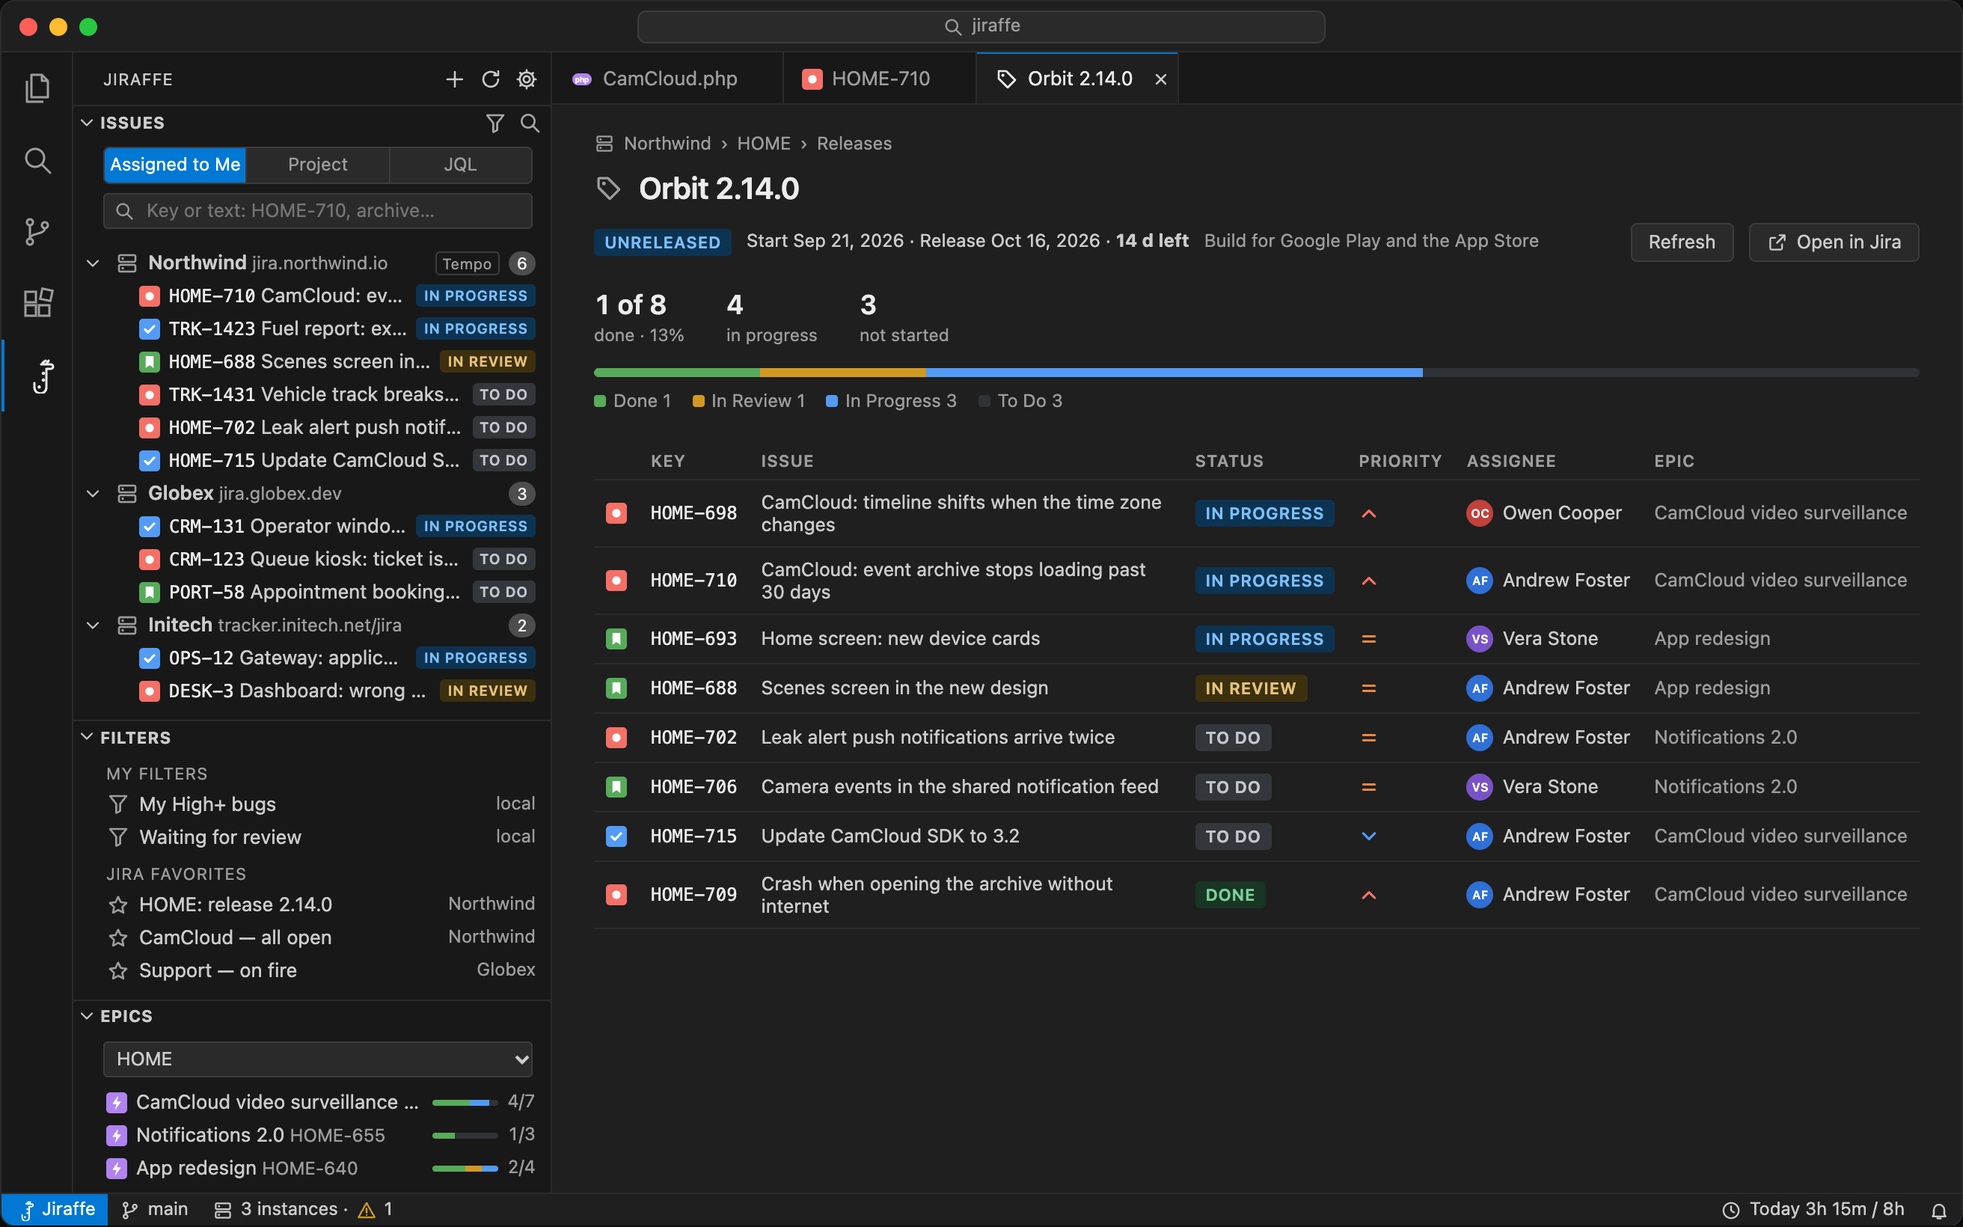
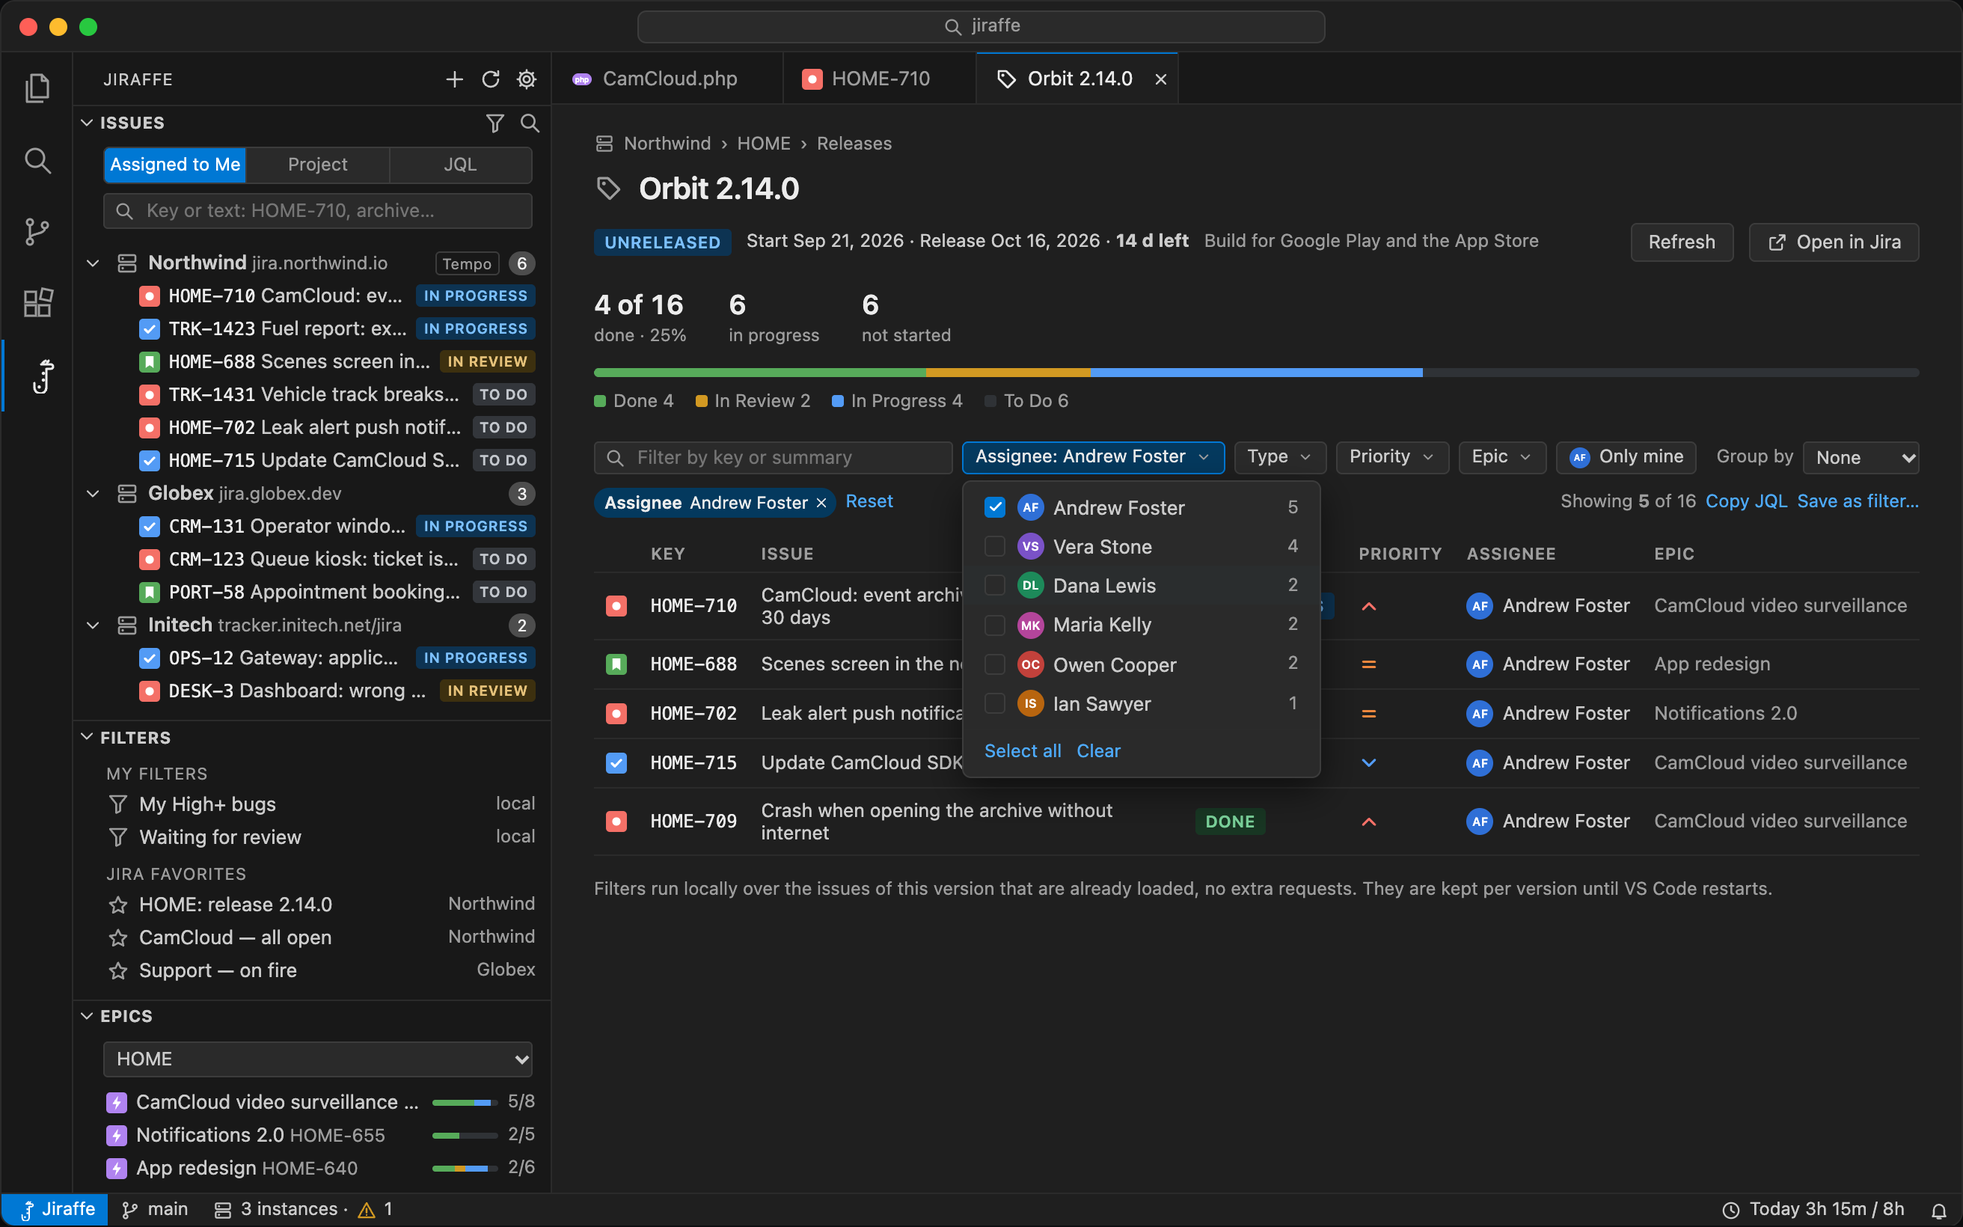
Release filters, stage 3: Copy JQL and Save as filter — the release tab's filterJql message is checked against the tab (instanceId, kind, id), only copy|save, a non-object filter or empty JQL ignored, the filter sanitized and the JQL built on the host (key search only for a key on the tab's page); c

Changed region(s): [[0.2812, 0.2488, 0.9688, 0.7463], [0.75, 0.3421, 0.9688, 0.6841], [0.6875, 0.3421, 0.7188, 0.4043]]

diff --git a/test/releaseFilterHost.test.ts b/test/releaseFilterHost.test.ts
@@ -1,0 +1,76 @@
+import { afterAll, describe, expect, it } from 'vitest';
+import { setL10n } from '../src/l10n';
+import type { ListRow, ReleasePage } from '../src/panels/protocol';
+import { copiedMessage, defaultFilterName, releaseFilterRequest, savedMessage } from '../src/panels/releaseFilterHost';
+import { emptyFilter } from '../webview/releaseFilter';
+
+const cloud = { kind: 'cloud' as const, caps: { tempo: false, epicLinkField: null, checkedAt: '' } };
+const dcNoEpic = { kind: 'dc' as const, caps: { tempo: false, epicLinkField: null, checkedAt: '' } };
+const row = (key: string, o: Partial<ListRow> = {}): ListRow => ({ key, summary: `S ${key}`, type: 'Task', status: 'Open', statusCategory: 'new', ...o });
+const page = (rows: ListRow[], meId?: string): ReleasePage => ({
+  type: 'release', instanceId: 'i', instanceName: 'I', project: 'ABC', id: '5', name: '2.14.0', released: false,
+  kind: 'cloud', progress: { done: 0, inProgress: 0, todo: rows.length, total: rows.length }, rows, truncated: false, ...(meId ? { meId } : {}),
+} as unknown as ReleasePage);
+const F = (o: Record<string, unknown>): unknown => ({ ...emptyFilter(), ...o });
+
+afterAll(() => setL10n(undefined, 'en'));
+
+describe('releaseFilterRequest', () => {
+  it('не объект вместо фильтра и неверный id релиза — игнор', () => {
+    expect(releaseFilterRequest(cloud, '5', undefined, undefined)).toBeUndefined();
+    expect(releaseFilterRequest(cloud, '5', 'x', undefined)).toBeUndefined();
+    expect(releaseFilterRequest(cloud, '5', [], undefined)).toBeUndefined();
+    expect(releaseFilterRequest(cloud, '1 OR 2', emptyFilter(), undefined)).toBeUndefined();
+  });
+  it('мусорный фильтр приводится к пустому: JQL только по релизу', () => {
+    expect(releaseFilterRequest(cloud, '5', { q: 5, cats: 'x', assignee: [1, {}] }, undefined)).toEqual({
+      filter: emptyFilter(), jql: 'fixVersion = 5 ORDER BY status, priority', notes: [],
+    });
+  });
+  it('поиск по ключу идёт как key = только для задачи со страницы вкладки', () => {
+    const p = page([row('ABC-1')]);
+    expect(releaseFilterRequest(cloud, '5', F({ q: 'abc-1' }), p)?.jql).toContain('(key = ABC-1 OR summary ~');
+    expect(releaseFilterRequest(cloud, '5', F({ q: 'abc-2' }), p)?.jql).not.toContain('key =');
+    expect(releaseFilterRequest(cloud, '5', F({ q: 'abc-1' }), undefined)?.jql).not.toContain('key =');
+  });
+  it('эпик не учтён: DC без Epic Link', () => {
+    const r = releaseFilterRequest(dcNoEpic, '5', F({ epic: ['ABC-9'] }), page([]));
+    expect(r?.notes).toEqual(['The epic condition was left out: Epic Link field is unknown on this instance.']);
+    expect(r?.jql).not.toContain('ABC-9');
+  });
+  it('эпик не учтён: поле есть, но ни один ключ не по формату — другая причина', () => {
+    const dc = { kind: 'dc' as const, epicLinkField: 'customfield_10008', caps: { tempo: false, epicLinkField: null, checkedAt: '' } };
+    const r = releaseFilterRequest(dc, '5', F({ epic: ['not a key'] }), page([]));
+    expect(r?.notes).toEqual(['The epic condition was left out: none of the selected epic keys is valid.']);
+    expect(releaseFilterRequest(dc, '5', F({ epic: ['ABC-9'] }), page([]))?.jql).toContain('cf[10008] in (ABC-9)');
+  });
+  it('Cloud, «Без эпика» и подзадача без эпика среди отфильтрованных — пометка; без подзадачи или на другом фильтре — нет', () => {
+    const rows = [row('ABC-1'), row('ABC-2', { type: 'Sub-task', assignee: { id: 'anna', name: 'Anna' } }), row('ABC-3', { type: 'Sub-task', epicKey: 'ABC-90' })];
+    const note = 'Sub-tasks without an epic are not included in the JQL.';
+    expect(releaseFilterRequest(cloud, '5', F({ epic: [''] }), page(rows))?.notes).toEqual([note]);
+    expect(releaseFilterRequest(cloud, '5', F({ epic: [''], assignee: ['ivan'] }), page(rows))?.notes).toEqual([]);
+    expect(releaseFilterRequest(cloud, '5', F({ epic: ['ABC-90'] }), page(rows))?.notes).toEqual([]);
+    expect(releaseFilterRequest(cloud, '5', F({ epic: [''] }), page([row('ABC-1')]))?.notes).toEqual([]);
+    expect(releaseFilterRequest(dcNoEpic, '5', F({ epic: [''] }), page(rows))?.notes).not.toContain(note);
+  });
+  it('«Только мои» учитывает meId страницы при подсчёте подзадач', () => {
+    const rows = [row('ABC-2', { type: 'Sub-task', assignee: { id: 'anna', name: 'Anna' } })];
+    expect(releaseFilterRequest(cloud, '5', F({ epic: [''], mine: true }), page(rows, 'ivan'))?.notes).toEqual([]);
+    expect(releaseFilterRequest(cloud, '5', F({ epic: [''], mine: true }), page(rows, 'anna'))?.notes).toHaveLength(1);
+  });
+});
+
+describe('тексты хоста', () => {
+  it('имя по умолчанию и уведомления', () => {
+    expect(defaultFilterName('ABC', '2.14.0')).toBe('ABC: 2.14.0 (filtered)');
+    expect(defaultFilterName('', '2.14.0')).toBe('2.14.0 (filtered)');
+    expect(copiedMessage('fixVersion = 5', [])).toBe('JQL copied: fixVersion = 5');
+    expect(copiedMessage('x', ['a.', 'b.'])).toBe('JQL copied: x a. b.');
+    expect(savedMessage('F', ['a.'])).toBe('Saved filter F. a.');
+  });
+  it('русский перевод', () => {
+    setL10n({ '{0} (filtered)': '{0} (с фильтрами)', 'Saved filter {0}.': 'Фильтр «{0}» сохранён.' }, 'ru');
+    expect(defaultFilterName('ABC', '2.14.0')).toBe('ABC: 2.14.0 (с фильтрами)');
+    expect(savedMessage('F', [])).toBe('Фильтр «F» сохранён.');
+  });
+});

diff --git a/src/panels/releaseFilterHost.ts b/src/panels/releaseFilterHost.ts
@@ -1,0 +1,50 @@
+// Хостовая часть «Копировать JQL» / «Сохранить как фильтр» вкладки релиза: чистые функции без vscode (тестируются в vitest).
+import type { Instance } from '../jira/types';
+import { epicFieldJql } from '../jira/epics';
+import { releaseFilterJql } from '../jira/releaseFilterJql';
+import { t } from '../l10n';
+import { applyFilter, sanitizeFilter } from '../../webview/releaseFilter';
+import { typeKind } from '../../webview/render';
+import type { ListPage, ReleaseFilter } from './protocol';
+
+type FilterInstance = Pick<Instance, 'kind' | 'epicLinkField' | 'caps'>;
+
+export interface FilterRequest {
+  filter: ReleaseFilter;
+  jql: string;
+  /** Дополнения к уведомлению: чего в JQL нет по сравнению с тем, что видно во вкладке. */
+  notes: string[];
+}
+
+/**
+ * Недоверенное сообщение `filterJql` → фильтр, JQL и пометки. `undefined` — игнорировать (не объект вместо фильтра, неверный id релиза).
+ * `data` — страница вкладки: по её строкам решается, есть ли задача с ключом из поиска (`key =`), и считаются подзадачи без эпика.
+ */
+export function releaseFilterRequest(inst: FilterInstance, versionId: string, rawFilter: unknown, data: ListPage | undefined): FilterRequest | undefined {
+  if (!rawFilter || typeof rawFilter !== 'object' || Array.isArray(rawFilter)) return undefined;
+  const filter = sanitizeFilter(rawFilter);
+  const rows = data?.type === 'release' ? data.rows : undefined;
+  const { jql, epicSkipped } = releaseFilterJql(inst, versionId, filter, rows ? { keyExists: (k) => rows.some((r) => r.key === k) } : {});
+  if (!jql) return undefined;
+  const notes: string[] = [];
+  // Условие по эпику выпало: поля Epic Link нет — или поле есть, но ни один выбранный ключ эпика не прошёл формат.
+  if (epicSkipped) {
+    notes.push(epicFieldJql(inst)
+      ? t('The epic condition was left out: none of the selected epic keys is valid.')
+      : t('The epic condition was left out: Epic Link field is unknown on this instance.'));
+  }
+  // Cloud: «Без эпика» = `parent is EMPTY`; подзадачи имеют родителя-не-эпика, вкладка их показывает, JQL — нет.
+  if (inst.kind === 'cloud' && filter.epic.includes('') && rows) {
+    const shown = applyFilter(rows, filter, data?.type === 'release' ? data.meId : undefined);
+    if (shown.some((r) => !r.epicKey && typeKind(r.type) === 'subtask')) notes.push(t('Sub-tasks without an epic are not included in the JQL.'));
+  }
+  return { filter, jql, notes };
+}
+
+/** Имя сохраняемого фильтра по умолчанию: «ABC: 2.14.0 (filtered)»; без ключа проекта — без префикса. */
+export const defaultFilterName = (project: string, versionName: string): string =>
+  t('{0} (filtered)', project ? `${project}: ${versionName}` : versionName);
+
+const withNotes = (text: string, notes: readonly string[]): string => [text, ...notes].join(' ');
+export const copiedMessage = (jql: string, notes: readonly string[]): string => withNotes(t('JQL copied: {0}', jql), notes);
+export const savedMessage = (name: string, notes: readonly string[]): string => withNotes(t('Saved filter {0}.', name), notes);

diff --git a/src/panels/listPanel.ts b/src/panels/listPanel.ts
@@ -2,11 +2,13 @@ import * as vscode from 'vscode';
 import { noticeText } from '../jira/attachments';
 import { localDate } from '../jira/worklog';
 import type { InstanceStore } from '../state/instances';
+import type { FilterState } from '../state/filters';
 import type { InstanceMeta } from '../state/meta';
 import { browseUrl } from './card';
 import { getBundle, locale, t } from '../l10n';
 import { makeNonce, renderShell } from './html';
 import { loadEpicPage, loadReleasePage, releaseUrl } from './list';
+import { copiedMessage, defaultFilterName, releaseFilterRequest, savedMessage } from './releaseFilterHost';
 import { isIssueKey, isVersionId, type HostToList, type ListPage, type ListToHost } from './protocol';
 
 export type ListKind = ListPage['type'];
@@ -40,6 +42,7 @@ export class ListPanelManager implements vscode.Disposable {
     private readonly extensionUri: vscode.Uri,
     private readonly store: InstanceStore,
     private readonly meta: InstanceMeta,
+    private readonly filters: FilterState,
   ) {}
 
   dispose(): void {
@@ -164,7 +167,37 @@ export class ListPanelManager implements vscode.Disposable {
       case 'openInBrowser':
         if (sameTarget(m)) this.openInBrowser(e);
         break;
+      case 'filterJql':
+        if (sameTarget(m) && m.kind === 'release' && (m.action === 'copy' || m.action === 'save')) {
+          void this.filterJql(e, m.action, m.filter).catch((err: unknown) => vscode.window.showErrorMessage(`Jiraffe: ${noticeText(errText(err))}`));
+        }
+        break;
     }
+  }
+
+  /** «Копировать JQL» / «Сохранить как фильтр» текущего фильтра релиза. Фильтр недоверенный: форма проверяется, JQL собирает хост. */
+  private async filterJql(e: Entry, action: 'copy' | 'save', raw: unknown): Promise<void> {
+    const inst = this.store.get(e.ref.instanceId);
+    if (!inst) return;
+    const req = releaseFilterRequest(inst, e.ref.id, raw, e.data);
+    if (!req) return;
+    if (action === 'copy') {
+      await vscode.env.clipboard.writeText(req.jql);
+      void vscode.window.showInformationMessage(copiedMessage(req.jql, req.notes));
+      return;
+    }
+    const d = e.data?.type === 'release' ? e.data : undefined;
+    const name = await vscode.window.showInputBox({
+      title: t('Save as Filter'),
+      prompt: t('Filter name'),
+      value: defaultFilterName(d?.project ?? '', d?.name ?? e.ref.id),
+      validateInput: (v) => (v.trim() ? undefined : t('The name is empty')),
+    });
+    if (!name?.trim()) return;
+    const saved = await this.filters.saveFilter(name.trim(), req.jql, inst.id);
+    const apply = t('Apply');
+    const pick = await vscode.window.showInformationMessage(savedMessage(saved.name, req.notes), apply);
+    if (pick === apply) await vscode.commands.executeCommand('jiraffe.applyFilter', { name: saved.name, jql: saved.jql, instanceId: inst.id });
   }
 
   private openInBrowser(e: Entry): void {

diff --git a/src/extension.ts b/src/extension.ts
@@ -44,7 +44,7 @@ export function activate(context: vscode.ExtensionContext): JiraffeApi {
   const worklog = new WorklogService(instances, meta);
   const today = new TodayService(instances, meta);
   const panels = new IssuePanelManager(context.extensionUri, instances, meta, attachments, worklog);
-  const lists = new ListPanelManager(context.extensionUri, instances, meta);
+  const lists = new ListPanelManager(context.extensionUri, instances, meta, filters);
   const epicProject = new SectionProject(context.workspaceState, EPIC_PROJECT_KEY, context.globalState);
   const releaseProject = new SectionProjects(context.workspaceState, RELEASE_PROJECT_KEY, context.globalState);
   const epicsTree = new EpicsTree(instances, epicProject, meta, context.globalState);

diff --git a/README.ru.md b/README.ru.md
@@ -121,6 +121,8 @@
 ### 8. Релизы
 - [x] Версии проекта: выпущенные / невыпущенные, даты (`/rest/api/2/project/{key}/versions`)
 - [x] Задачи релиза (`fixVersion = X`) и прогресс (`/rest/api/2/version/{id}/relatedIssueCounts`)
+- [x] Фильтры во вкладке релиза: категория статуса (готово / в работе / не начато) по плиткам прогресса и легенде, поиск по ключу и названию, фасеты «Исполнитель / Тип / Приоритет / Эпик» со счётчиками, «Только мои», группировка по исполнителю / эпику / статусу с прогрессом группы; фильтр живёт до закрытия вкладки
+- [x] «Копировать JQL» и «Сохранить как фильтр» для текущей выборки релиза (сохранённый фильтр появляется в «Фильтры», кнопка «Применить» переключает «Задачи» на его JQL)
 
 ### 9. Статусы
 - [x] Смена статуса: переходы, доступные пользователю; обязательные поля перехода со списком значений — выбором

diff --git a/README.md b/README.md
@@ -30,7 +30,7 @@ It covers the daily routine, not all of Jira. Creating and editing issues is not
 
 ![Log work dialog](docs/screenshots/log-work.png)
 
-**Epics and releases.** Per-project lists with progress. Releases can follow several projects at once: tick them in the project picker in the view title, the × on a project stops following it. An epic or release opens in a tab with a status breakdown and its issues.
+**Epics and releases.** Per-project lists with progress. Releases can follow several projects at once: tick them in the project picker in the view title, the × on a project stops following it. An epic or release opens in a tab with a status breakdown and its issues. A release tab filters its issues without leaving the editor: click the progress tiles or the legend to pick a status category, search by key or summary, narrow by Assignee, Type, Priority and Epic (with counts), Only mine, group by assignee, epic or status; *Copy JQL* and *Save as filter* turn the current selection into JQL for the Filters tab.
 
 **AI chat.** With the [Agentura](https://github.com/fosteev/Agentura) extension installed, the issue card has an “Open in Agentura ▾” button: the issue goes in as context and its link is typed into the input. If the issue already has chats, a menu offers to continue the latest one, pick another, or start a new chat.
 

diff --git a/CHANGELOG.md b/CHANGELOG.md
@@ -1,5 +1,9 @@
 # Changelog
 
+## 0.11.0
+
+- Releases: filters inside the release tab. The progress tiles and the legend pick a status category (done, in progress, to do); below them a search by key or summary, Assignee / Type / Priority / Epic lists with counts, Only mine and grouping by assignee, epic or status (each group shows its own progress), with chips, a reset and “Showing N of M”. *Copy JQL* and *Save as filter* turn the current selection into JQL (the saved one appears in Filters, with an Apply button). The selection is kept until the tab is closed and works on the loaded issues, without extra requests.
+
 ## 0.10.0
 
 - Releases: follow several projects, across instances too. The project button in the view title is now a list with checkboxes; with more than one project the view groups releases by project, and the × on a project stops following it. The project chosen before stays selected.
